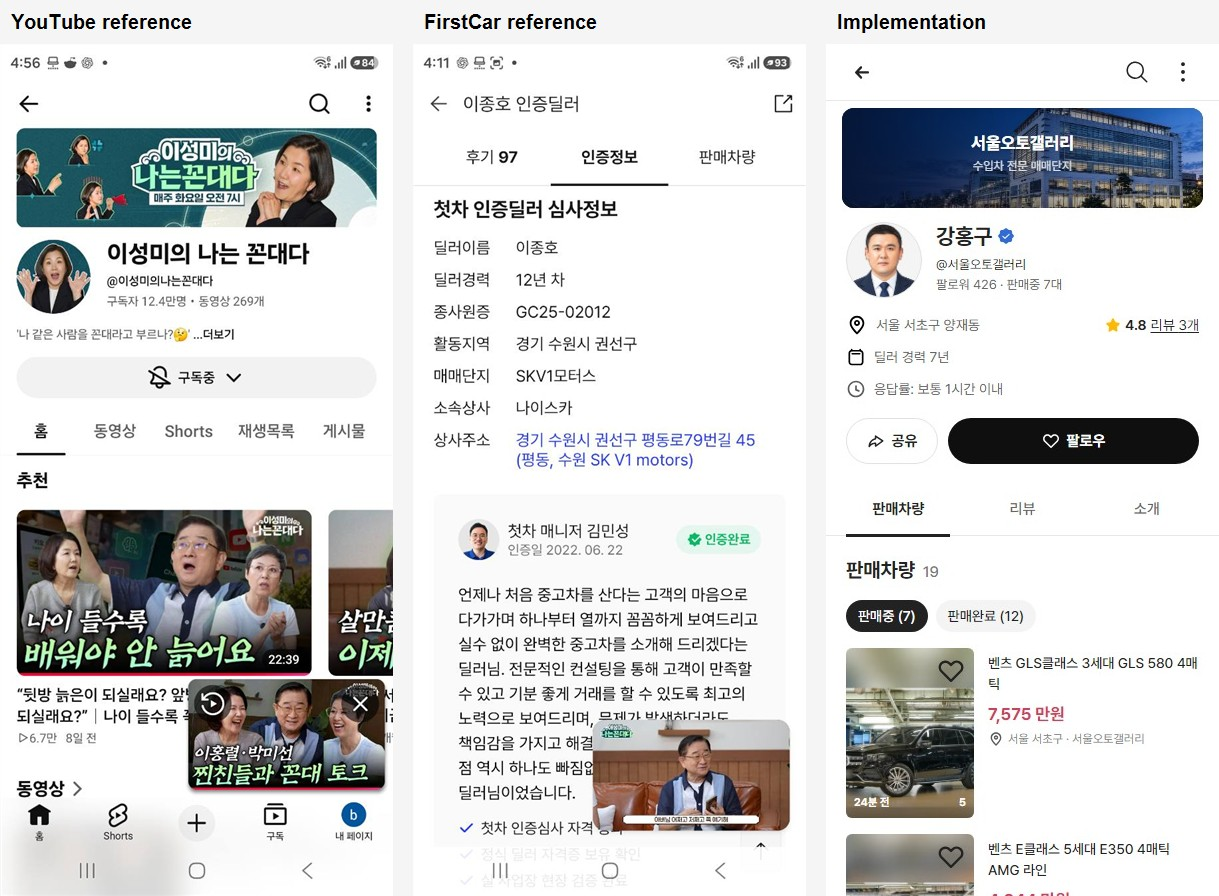
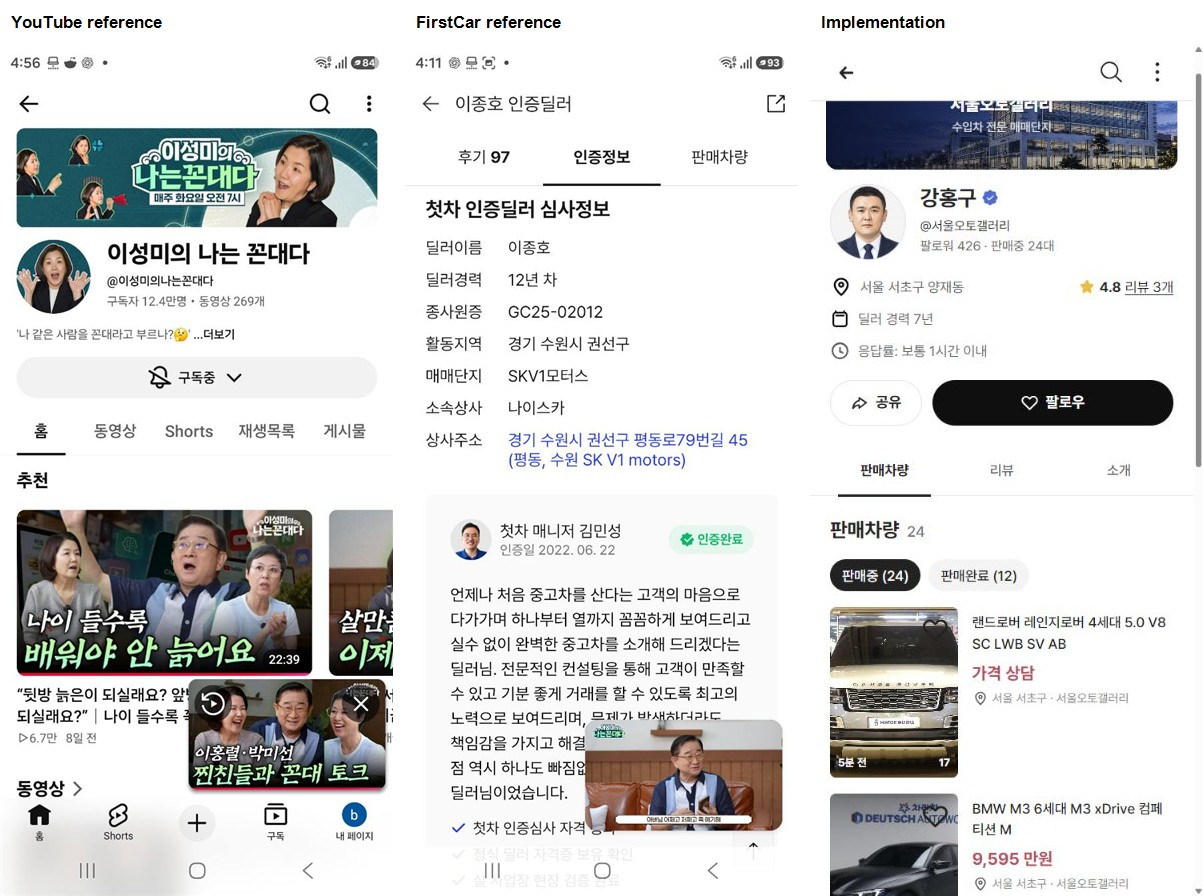
Link dealer profile to test inventory

diff --git a/src/prototype/dealer-page/DealerPage.tsx b/src/prototype/dealer-page/DealerPage.tsx
@@ -97,7 +97,7 @@ function SiteHeader() {
   </header>;
 }
 
-function DealerProfile({ dealer, following, setFollowing, share }: { dealer: SeoulAutoGalleryDealer; following: boolean; setFollowing: (value: boolean) => void; share: () => void }) {
+function DealerProfile({ dealer, listingCount, following, setFollowing, share }: { dealer: SeoulAutoGalleryDealer; listingCount: number; following: boolean; setFollowing: (value: boolean) => void; share: () => void }) {
   return <section className="dp-profile">
     <div className="dp-cover">
       <img className="dp-cover-photo" src={asset("seoul-auto-gallery/header/building-bluehour-v01.png")} alt="서울오토갤러리 전경" draggable={false} />
@@ -110,7 +110,7 @@ function DealerProfile({ dealer, following, setFollowing, share }: { dealer: Seo
       <div className="dp-profile-copy">
         <h1>{dealer.name}<Icon name="chotot-list-detail-verified-dealer-wavy-badge.svg" className="is-badge" /></h1>
         <div className="dp-profile-inline is-channel-handle">@서울오토갤러리</div>
-        <div className="dp-profile-inline is-channel-meta">팔로워 {MOCK.followers + (following ? 1 : 0)} · 판매중 7대</div>
+        <div className="dp-profile-inline is-channel-meta">팔로워 {MOCK.followers + (following ? 1 : 0)} · 판매중 {listingCount}대</div>
         <div className="dp-profile-actions">
           <button type="button" onClick={share}><Icon name="chotot-common-share.svg" />공유</button>
           <button type="button" aria-pressed={following} onClick={() => setFollowing(!following)}><Icon name={following ? "chotot-list-detail-following.svg" : "chotot-list-detail-follow.svg"} />{following ? "팔로잉" : "팔로우"}</button>
@@ -156,10 +156,9 @@ function SoldCards({ limit }: { limit: number }) {
 
 function ListingsSection({ cars, mode, setMode, onOpen }: { cars: Car[]; mode: ListingMode; setMode: (mode: ListingMode) => void; onOpen: (car: Car) => void }) {
   const [limit, setLimit] = useState(5);
-  const total = cars.length + MOCK.sold;
   const max = mode === "active" ? cars.length : MOCK.soldCars.length;
   return <section className="dp-content-card dp-listings">
-    <h2>판매차량 <span>{total}</span></h2>
+    <h2>판매차량 <span>{cars.length}</span></h2>
     <div className="dp-listing-modes" role="tablist" aria-label="판매 상태">
       <button type="button" role="tab" aria-selected={mode === "active"} onClick={() => { setMode("active"); setLimit(5); }}>판매중 ({cars.length})</button>
       <button type="button" role="tab" aria-selected={mode === "sold"} onClick={() => { setMode("sold"); setLimit(5); }}>판매완료 ({MOCK.sold})</button>
@@ -251,7 +250,7 @@ function DealerProfilePage({ dealer, cars }: { dealer: SeoulAutoGalleryDealer; c
     <div className="dp-scroll" ref={scrollRef}>
       <SiteHeader />
       <main className="dp-page" aria-label={`${dealer.name} 딜러 판매자 페이지`}>
-        <DealerProfile dealer={dealer} following={following} setFollowing={setFollowing} share={share} />
+        <DealerProfile dealer={dealer} listingCount={cars.length} following={following} setFollowing={setFollowing} share={share} />
         <AnchorNav active={activeSection} onChange={changeSection} />
         {activeSection === "ads" ? <ListingsSection cars={cars} mode={mode} setMode={setMode} onOpen={openListing} /> : null}
         {activeSection === "rating" ? <RatingsSection cars={cars} /> : null}
@@ -266,7 +265,9 @@ function DealerProfilePage({ dealer, cars }: { dealer: SeoulAutoGalleryDealer; c
 export default function DealerPage() {
   const params = new URLSearchParams(window.location.search);
   const dealer: SeoulAutoGalleryDealer = dealers.find((item) => item.shopNo === params.get("shop") && item.empNo === (params.get("emp") ?? item.empNo)) ?? dealers[0];
-  const cars = useMemo(() => seoulAutoGalleryCars.filter((car) => car.dealer.startsWith(dealer.name)), [dealer.name]);
+  const cars = useMemo(() => dealer.shopNo === dealers[0].shopNo
+    ? seoulAutoGalleryCars
+    : seoulAutoGalleryCars.filter((car) => car.dealer.startsWith(dealer.name)), [dealer.name, dealer.shopNo]);
   const linkedCar = cars.find((car) => String(car.id) === params.get("listing"));
 
   if (linkedCar) {

diff --git a/src/prototype/dealer-page/dealer-page.css b/src/prototype/dealer-page/dealer-page.css
@@ -117,9 +117,9 @@
 .dp-sold-card h3 { margin-top: 4px; font-size: 14px; line-height: 21px; font-weight: 500; }
 .dp-sold-card time { display: block; margin-top: 5px; color: #999; font-size: 12px; line-height: 18px; }
 
-.dp-anchor-nav { position: sticky; top: 56px; z-index: 20; display: flex; height: 54px; margin-top: 0; padding: 0 10px; border-bottom: 1px solid var(--dp-line); background: #fff; }
-.dp-anchor-nav button { position: relative; flex: 1; height: 54px; color: #666; font-size: 15px; font-weight: 500; white-space: nowrap; }
-.dp-anchor-nav button::after { content: ""; position: absolute; right: 10px; bottom: -1px; left: 10px; height: 3px; background: transparent; }
+.dp-anchor-nav { position: sticky; top: 56px; z-index: 20; display: flex; justify-content: center; height: 52px; margin-top: 0; padding: 0 16px; border-bottom: 1px solid var(--dp-line); background: #fff; }
+.dp-anchor-nav button { position: relative; flex: 1 1 0; max-width: 176px; height: 52px; color: #666; font-size: 14px; line-height: 20px; font-weight: 500; white-space: nowrap; }
+.dp-anchor-nav button::after { content: ""; position: absolute; right: 12px; bottom: -1px; left: 12px; height: 2px; background: transparent; }
 .dp-anchor-nav button.is-active { color: var(--dp-ink); font-weight: 700; }
 .dp-anchor-nav button.is-active::after { background: var(--dp-ink); }
 
@@ -216,9 +216,9 @@
   .dp-listing-copy > b { margin-top: 3px; font-size: 17px; }
   .dp-sold-grid { grid-template-columns: repeat(5, minmax(0, 1fr)); gap: 16px; }
   .dp-sold-card { min-height: 126px; }
-  .dp-anchor-nav { top: 64px; width: 100%; height: 54px; margin: 0 auto; padding: 0; }
-  .dp-anchor-nav button { flex: 0 0 142px; height: 54px; padding: 0 18px; font-size: 15px; }
-  .dp-anchor-nav button::after { right: 18px; left: 18px; }
+  .dp-anchor-nav { top: 64px; width: 100%; height: 52px; margin: 0 auto; padding: 0 20px; }
+  .dp-anchor-nav button { flex: 1 1 0; max-width: 176px; height: 52px; padding: 0 18px; font-size: 14px; }
+  .dp-anchor-nav button::after { right: 20px; left: 20px; }
   .dp-ratings { margin-top: 0; padding: 22px 20px 28px; }
   .dp-rating-layout { display: grid; grid-template-columns: 280px minmax(0, 1fr); gap: 18px; }
   .dp-rating-summary { align-self: start; }

diff --git a/design-qa.md b/design-qa.md
@@ -112,6 +112,56 @@ final result: passed
 
 ---
 
+# Design QA · 판매자 실제 테스트 매물·탭 균형 (2026-10-15)
+
+- source visual truth: `C:/Users/bobae/OneDrive/문서/ChatGPT/퀵필터 제작/.codex-remote-attachments/01a0f512-065a-7300-9ce1-d86601ce6384/8ea69c42-2ca7-461a-8800-147ccaade0e1/1-1000018260.jpg`
+- secondary reference: `C:/Users/bobae/OneDrive/문서/ChatGPT/퀵필터 제작/.codex-remote-attachments/01a0f512-065a-7300-9ce1-d86601ce6384/8ea69c42-2ca7-461a-8800-147ccaade0e1/2-1000018256.jpg`
+- implementation screenshot: `design-qa-dealer-tabs-mobile.jpg`
+- side-by-side comparison: `design-qa-dealer-tabs-comparison.jpg`
+- source images: 592 × 1280 px 계열 기기 캡처, 393 × 852 CSS px 기준으로 정규화
+- implementation: 393 × 852 CSS px, DPR 1
+- state: 판매차량 탭 선택, 실제 테스트 매물 24대 연결
+
+## Full-view comparison evidence
+
+- 유튜브식 흰 배경 프로필 구조와 첫차식 판매자 정보 탭 구조를 같은 비교 이미지에서 대조했다.
+- 프로필의 판매중 수와 판매차량 제목·상태 탭이 모두 실제 테스트 데이터 24대를 표시한다.
+- 판매 목록 첫 화면에 레인지로버, BMW M3, 타이칸 등 실제 테스트 카드가 노출된다.
+- 모바일 393px과 PC 1440px에서 세 개의 주 탭이 콘텐츠 중앙축에 균등하게 자리 잡는다.
+
+## Focused tab evidence
+
+- 주 탭 높이 52px, 글자 14px, 항목 최대 너비 176px, 선택 밑줄 2px로 통일했다.
+- 모바일은 좌우 16px, PC는 좌우 20px 여백을 두고 탭 묶음을 중앙 정렬했다.
+- `판매차량`, `리뷰`, `소개`를 전환해 제목·콘텐츠가 정상 교체되는 것을 확인했다.
+- BMW M3 카드를 열어 실제 `listing=13001` 상세 화면으로 연결되는 것을 확인했다.
+
+## Comparison history
+
+- 이전 P2: 강홍구 이름으로 필터된 7대만 보여 실제 테스트 재고를 대표하지 못했고, PC 탭 묶음이 왼쪽으로 치우쳤다.
+- fix: 대표 판매자에 서울오토갤러리 테스트 재고 24대를 연결하고 탭 너비·중앙축을 반응형으로 다시 설정했다.
+- post-fix evidence: 모바일/PC 캡처에서 실제 카드와 수량이 일치하고 주 탭의 좌우 시각 무게가 같다.
+
+## Required fidelity surfaces
+
+- fonts/typography: 탭 14/20px, 선택 700·비선택 500으로 정보 계층을 명확히 했다.
+- spacing/layout rhythm: 52px 탭 높이와 2px 밑줄, 최대 176px 폭으로 모바일과 PC 리듬을 통일했다.
+- colors/tokens: 흰 배경, `#222` 선택 텍스트, `#666` 비선택 텍스트, 기존 구분선 토큰을 유지했다.
+- image quality/assets: 실제 테스트 매물 사진을 원본 비율로 사용했고 깨진 이미지가 없다.
+- copy/content: 판매중 24대, 판매차량 24, 실제 차량명·가격·지역을 데이터와 동일하게 표시한다.
+
+## Verification
+
+- 모바일 393 × 852, PC 1440 × 1000 확인.
+- 리뷰·소개 탭 전환 확인.
+- BMW M3 상세 연결 확인.
+- 콘솔 오류 0건.
+- P0/P1/P2 findings: none after fixes.
+
+final result: passed
+
+---
+
 # Design QA · 판매자 페이지 3탭 평면화 (2026-10-15)
 
 - source visual truth (YouTube): `C:/Users/bobae/OneDrive/문서/ChatGPT/퀵필터 제작/.codex-remote-attachments/01a0f512-065a-7300-9ce1-d86601ce6384/8ea69c42-2ca7-461a-8800-147ccaade0e1/1-1000018260.jpg`
